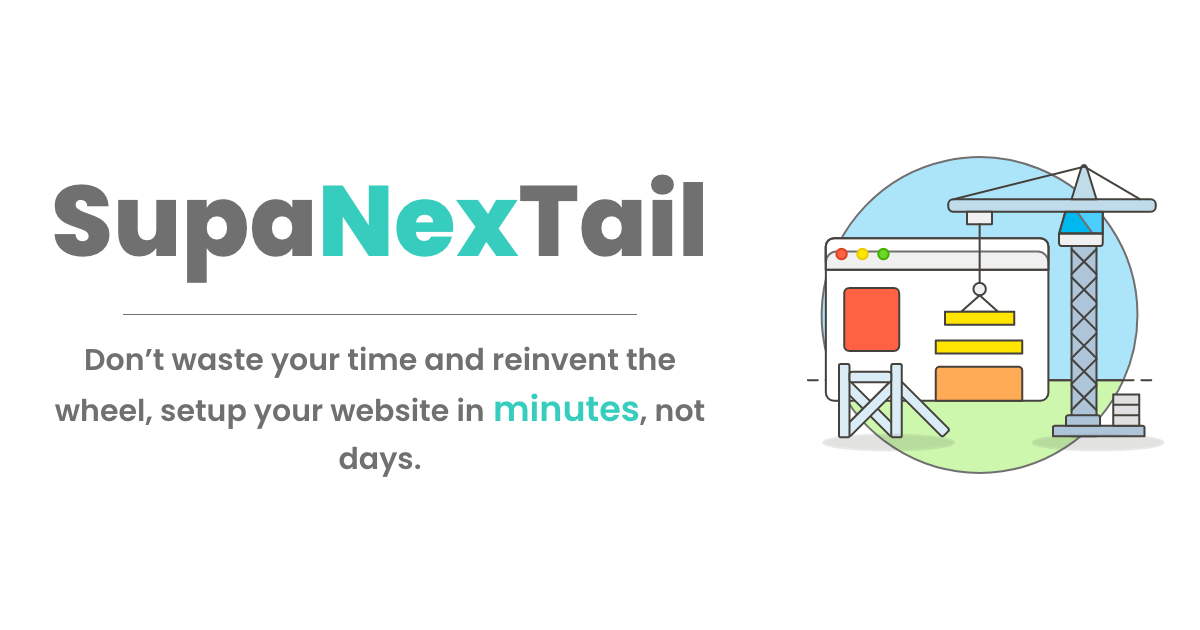
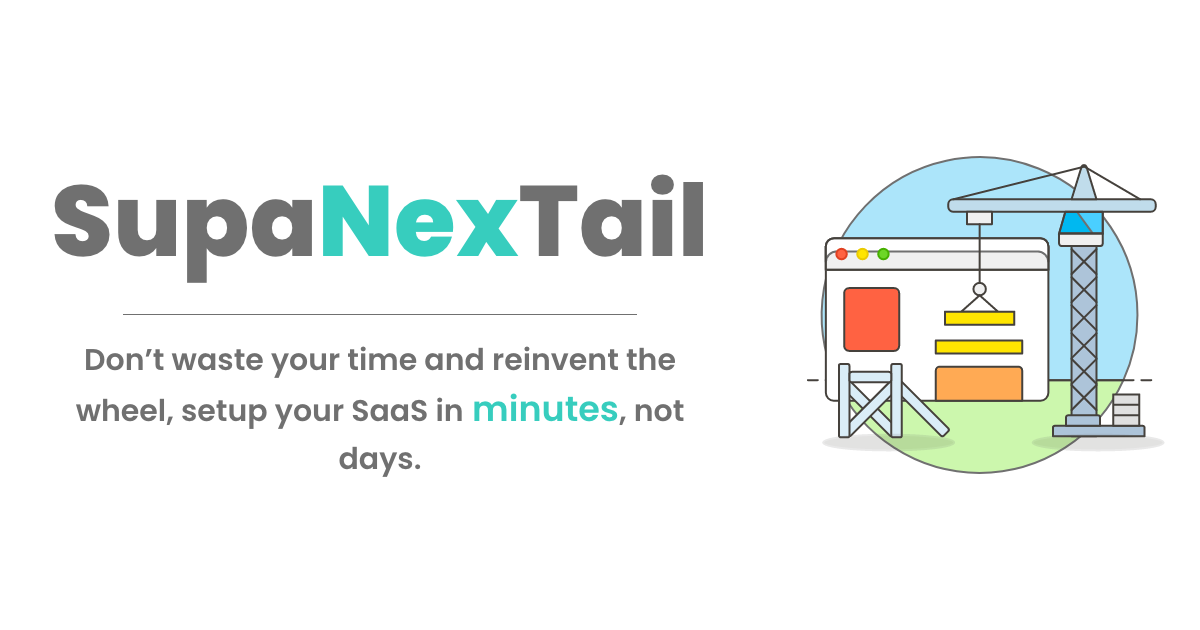
Change website description

Changed region(s): [[0.0308, 0.6333, 0.5858, 0.6937]]

diff --git a/pages/index.js b/pages/index.js
@@ -9,13 +9,13 @@ const Home = () => {
     <>
       <NextSeo
         title={`Welcome to ${process.env.NEXT_PUBLIC_TITLE} 👋`}
-        description={`SupaNexTail is a boilerplate for your website, based on Next.js, Supabase, and TailwindCSS`}
+        description={`SupaNexTail is a boilerplate for your SaaS, based on Next.js, Supabase, and TailwindCSS`}
         openGraph={{
           type: "website",
           url: "https://www.supanextail.dev/",
           title: `Welcome to ${process.env.NEXT_PUBLIC_TITLE} 👋`,
           description:
-            "SupaNexTail is a boilerplate for your website, based on Next.js, Supabase, and TailwindCSS",
+            "SupaNexTail is a boilerplate for your SaaS, based on Next.js, Supabase, and TailwindCSS",
           images: [
             {
               url: "https://www.supanextail.dev/ogimage.png",
